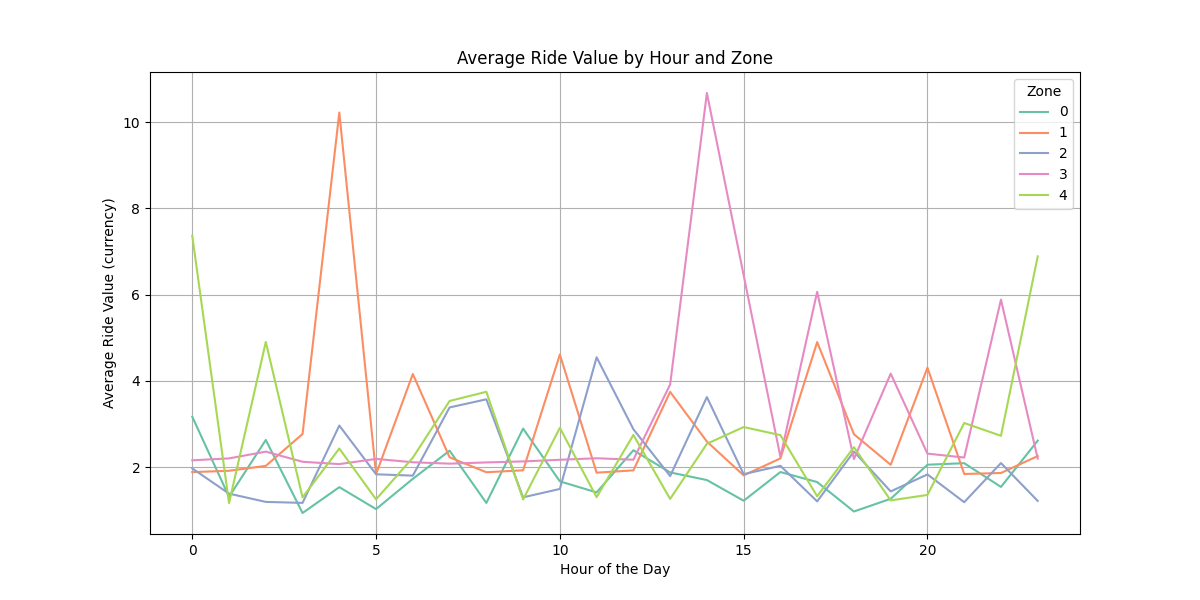
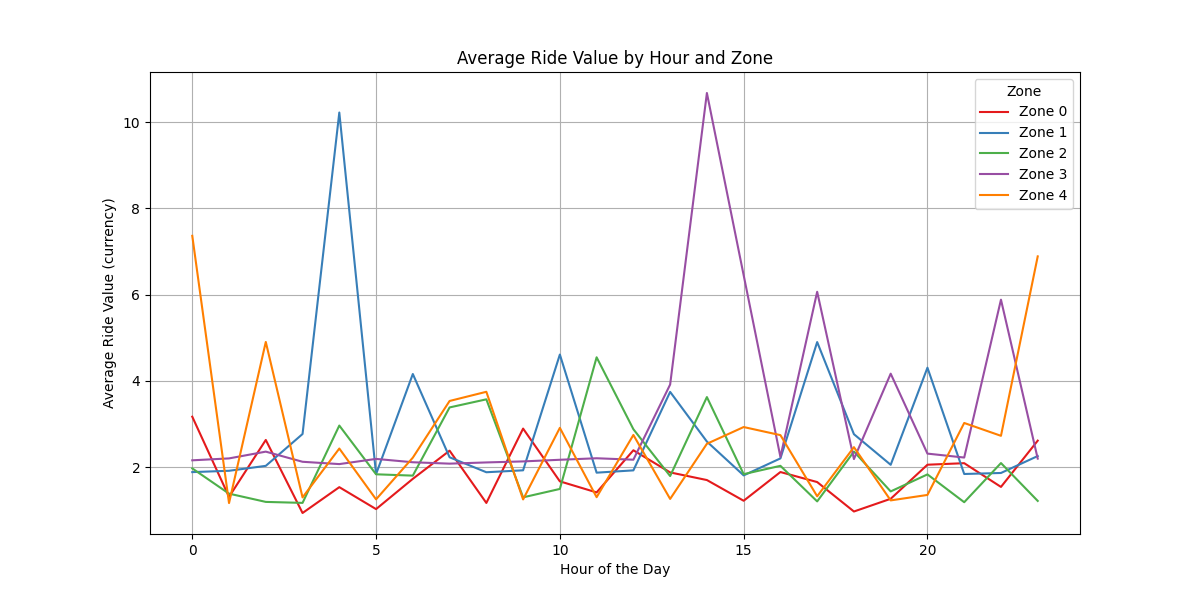
Fix zone colors for aggregated plots too

diff --git a/train.py b/train.py
@@ -6,8 +6,15 @@ import seaborn as sns
 import matplotlib.pyplot as plt
 
 
-filepath = "data/robotex5_clustered.csv"
-df = pd.read_csv(filepath)
+# Load the ride data with zones
+df = pd.read_csv("data/robotex5_clustered.csv")
+
+# Load the cluster centers with colors
+cluster_centers = pd.read_csv("data/cluster_centers.csv")
+
+# Create a color map from the cluster_centers file
+zone_colors = cluster_centers.set_index("zone")["color"].to_dict()
+
 
 # Extract features from 'start_time'
 df["start_time"] = pd.to_datetime(df["start_time"])
@@ -34,12 +41,16 @@ rides_by_hour_zone = (
 )
 
 
-# TODO: use same colors
 # Plot 1: Most popular time of day per zone (number of rides by hour)
 plt.figure(figsize=(12, 6))
-sns.lineplot(
-    data=rides_by_hour_zone, x="hour", y="num_rides", hue="zone", palette="Set1"
-)
+for zone in rides_by_hour_zone["zone"].unique():
+    zone_data = rides_by_hour_zone[rides_by_hour_zone["zone"] == zone]
+    plt.plot(
+        zone_data["hour"],
+        zone_data["num_rides"],
+        label=f"Zone {zone}",
+        color=zone_colors[zone],
+    )
 plt.title("Most Popular Time of Day per Zone (Number of Rides)")
 plt.xlabel("Hour of the Day")
 plt.ylabel("Number of Rides")
@@ -49,9 +60,14 @@ plt.savefig("most_popular_time_of_day.png")
 
 # Plot 2: Average ride value by hour and zone
 plt.figure(figsize=(12, 6))
-sns.lineplot(
-    data=rides_by_hour_zone, x="hour", y="avg_ride_value", hue="zone", palette="Set2"
-)
+for zone in rides_by_hour_zone["zone"].unique():
+    zone_data = rides_by_hour_zone[rides_by_hour_zone["zone"] == zone]
+    plt.plot(
+        zone_data["hour"],
+        zone_data["avg_ride_value"],
+        label=f"Zone {zone}",
+        color=zone_colors[zone],
+    )
 plt.title("Average Ride Value by Hour and Zone")
 plt.xlabel("Hour of the Day")
 plt.ylabel("Average Ride Value (currency)")
